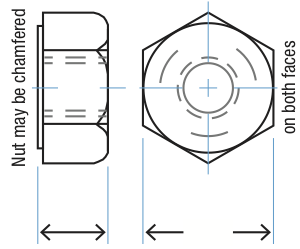
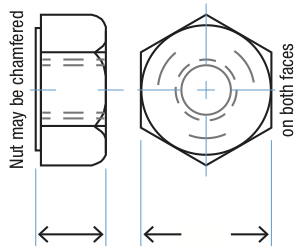
updated dimension art

diff --git a/index.html b/index.html
@@ -130,7 +130,7 @@ limitations under the License.
             <p class="measurement grade-designator current-grade" data-x="14%" data-y="36%" title="Grade">Grade</p>
             <p class="measurement" data-x="14%" data-y="92%" title="Width Across Flats">F</p>
             <p class="measurement" data-x="35%" data-y="81%" title="Height">H</p>
-            <p class="measurement" data-x="83%" data-y="4%" title="Thread Length">Thread Length</p>
+            <p class="measurement" data-x="83%" data-y="8%" title="Thread Length">Thread Length</p>
             <p class="measurement" data-x="68%" data-y="75%" title="Length Extras"><a href="#bolt-length" data-rel="popup">+ Grip + Washers</a></p>
             <p class="measurement" data-x="68%" data-y="92%" title="Base Length">Bolt Length</p>
           </div>
@@ -139,7 +139,7 @@ limitations under the License.
             <p class="measurement grade-designator current-grade" data-x="13%" data-y="36%" title="Grade">Grade</p>
             <p class="measurement" data-x="13%" data-y="92%" title="Width Across Flats">F</p>
             <p class="measurement" data-x="33%" data-y="81%" title="Height">H</p>
-            <p class="measurement" data-x="77%" data-y="6%" title="Thread Length">Thread Length</p>
+            <p class="measurement" data-x="77%" data-y="8%" title="Thread Length">Thread Length</p>
             <p class="measurement" data-x="63%" data-y="75%" title="Length Extras"><a href="#bolt-length" data-rel="popup">+ Grip + Washers</a></p>
             <p class="measurement" data-x="63%" data-y="92%" title="Base Length">Bolt Length</p>
           </div>
@@ -161,8 +161,8 @@ limitations under the License.
           <img src="images/dimensions/washer-square-sample.png">
           <p class="measurement" data-x="41%" data-y="91%" title="Min Side Dimension">A</p>
           <p class="vertical measurement" data-x="78%" data-y="43%" title="Min Side Dimension">A</p>
-          <p class="measurement" data-x="72%" data-y="92%" title="Mean Thickness">T</p>
-          <p class="measurement" data-x="94%" data-y="55%" title="Taper In Thickness"></p>
+          <p class="measurement" data-x="73%" data-y="92%" title="Mean Thickness">T</p>
+          <p class="vertical measurement" data-x="96%" data-y="55%" title="Taper In Thickness"></p>
           <p class="measurement" data-x="59%" data-y="57%" title="Min Edge Distance">E</p>
           <p class="measurement" data-x="k%" data-y="43%" title="Inside Diameter">I.D.</p>
         </li>
